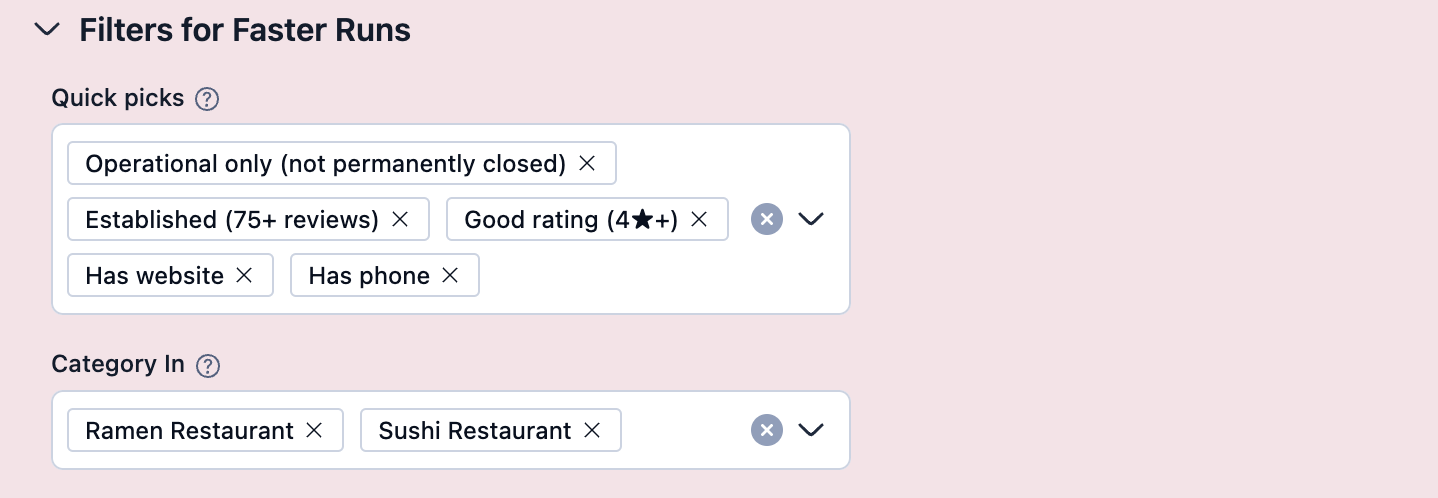
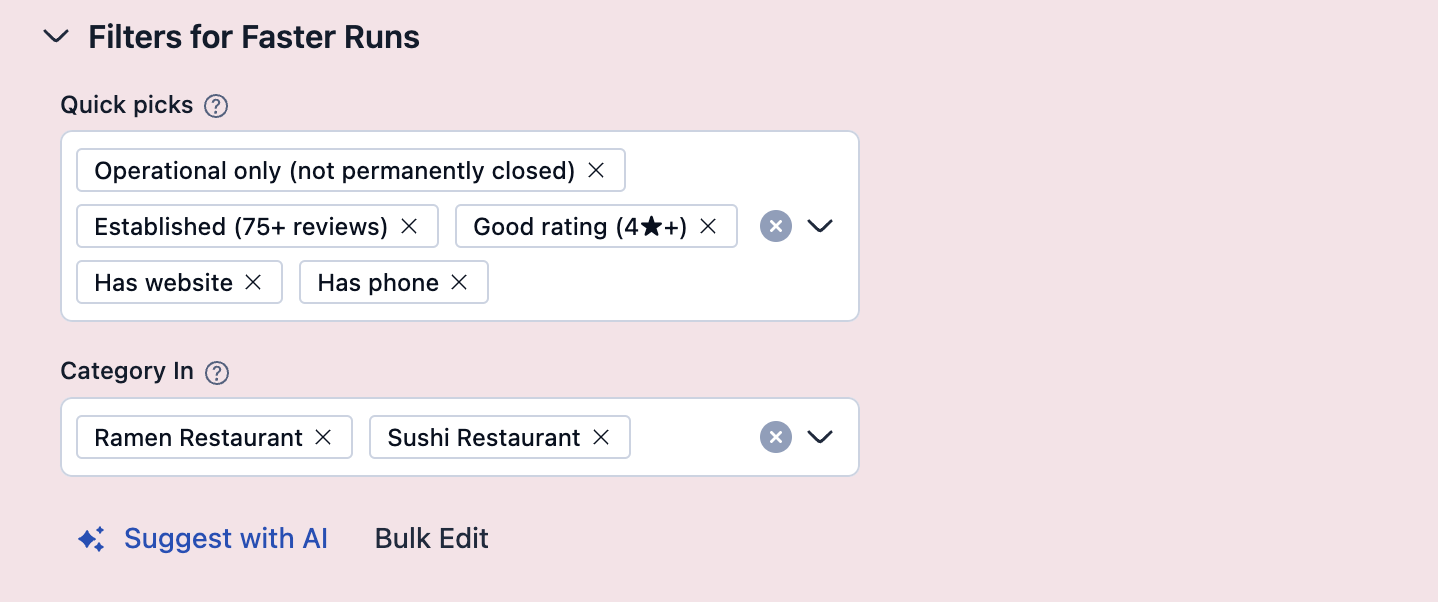
fixes

Changed region(s): [[0.0306, 0.1506, 0.612, 0.9639], [0.0306, 0.0301, 0.306, 0.0904]]

diff --git a/README.md b/README.md
@@ -87,7 +87,7 @@ Talk is cheap. Here's what I extracted with this tool:
 
 - 🍔 **21,068 restaurants in New York City** — [Download csv and see results](https://www.omkar.cloud/l/restaurant-in-new-york-city)
 - 💪 **14,253 gyms in London** — [Download csv and see results](https://www.omkar.cloud/l/gym-in-london)
-- 🥐 **9,115 bakeries in Paris** — [Download csv and see results](https://www.omkar.cloud/l/bakery-in-paris)
+- 🎂 **9,115 bakeries in Paris** — [Download csv and see results](https://www.omkar.cloud/l/bakery-in-paris)
 
 44,000+ leads from just 3 searches, with 197 still left in the free plan 😎.
 
@@ -130,9 +130,9 @@ Stick with the default **Detailed** strategy. It finds the most businesses and i
 **Pro Tip:** Use **Filters for Faster Runs** to make searches 3–5x faster. The tool skips every business that doesn't match instead of collecting it. Try:
 
 1. **Quick picks** → Operational only, Established (75+ reviews), Good rating (4★+), Has website (tech-savvy), Has phone
-2. **Category In** → the exact category you sell to
+2. **Category In** → click **Suggest with AI** and it picks the right categories
 
-![Filters for Faster Runs: quick picks and Category In](https://raw.githubusercontent.com/omkarcloud/google-maps-scraper/master/screenshots/filters-for-faster-runs.png)
+![Filters for Faster Runs: quick picks, Category In and Suggest with AI](https://raw.githubusercontent.com/omkarcloud/google-maps-scraper/master/screenshots/filters-for-faster-runs.png)
 
 
 ## 💰 Pricing
